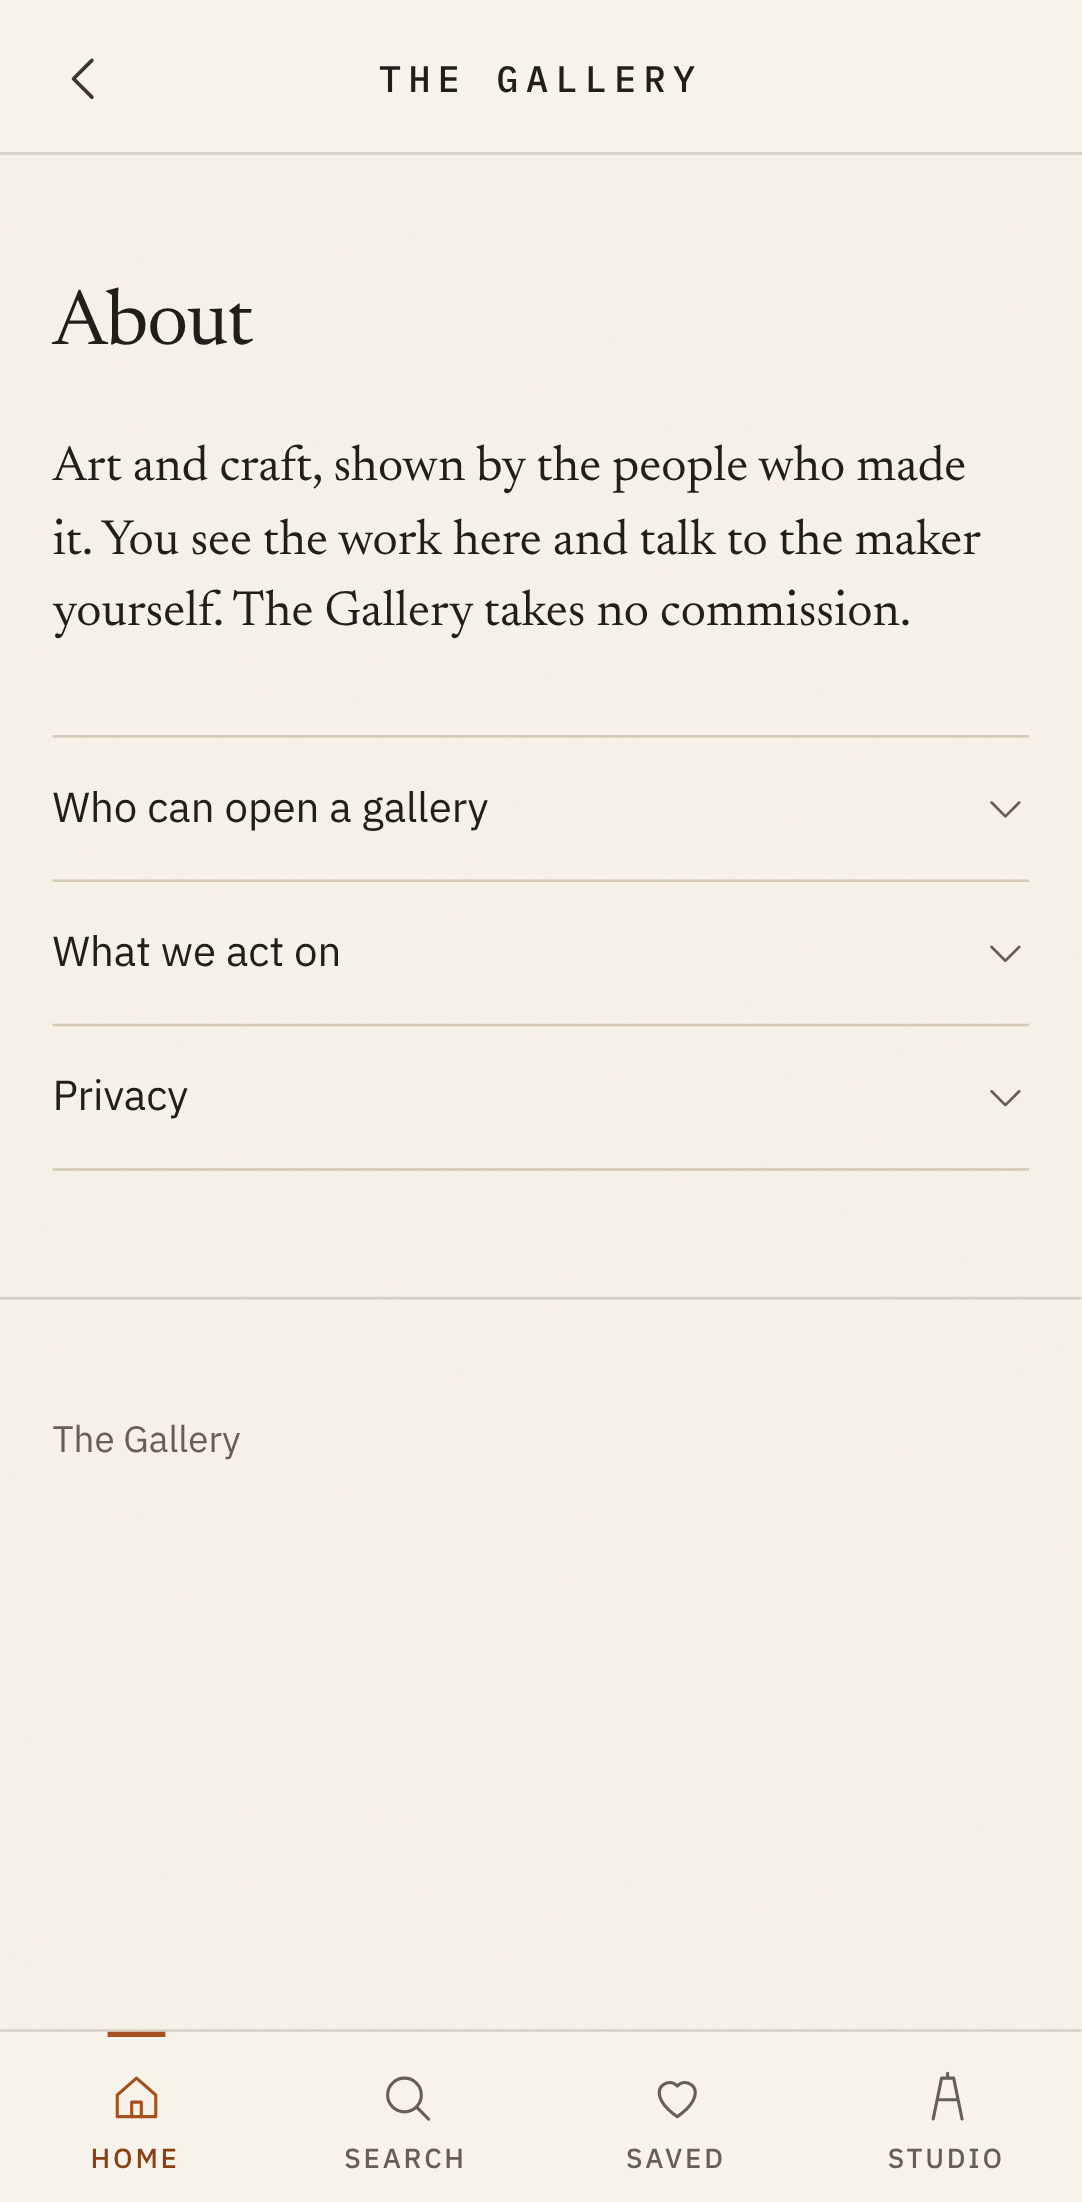
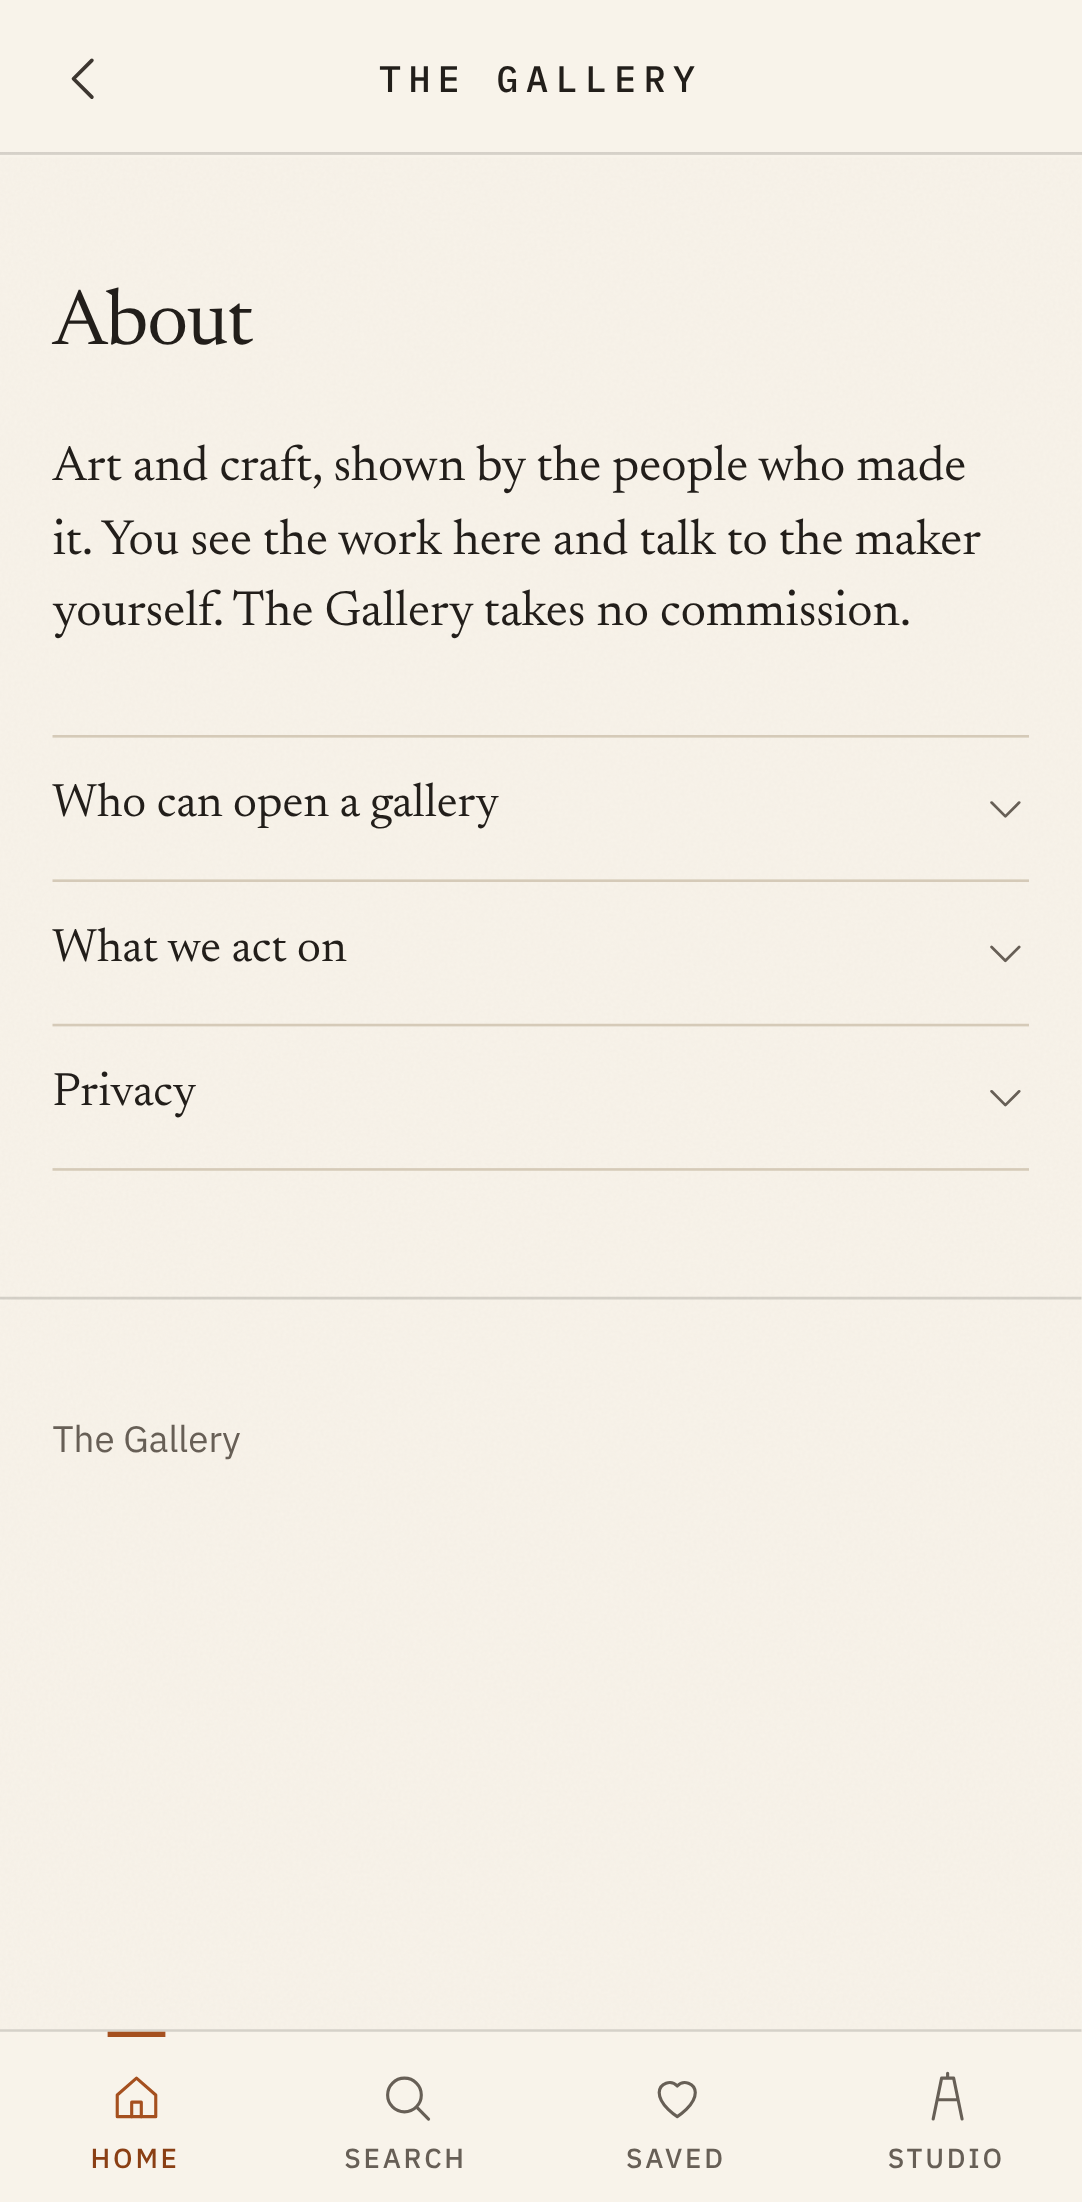
Policy screens: fixes from the design reviews; R03 also catches 'not X, or not Y'
- R03 widened to 'or' (proved: the sweep alone failed on /about and /participation on the old copy)
- 'Anything not allowed here, or not lawful…' -> 'Anything the law or this site forbids you to show or sell.'
- Visiting trimmed (no heading echo, one negative); 'Making' -> 'Running a gallery'
- Under About the row name leads (grid-title) and inner headings sit below it (body)
- /participation: second title a step below the page title; heading block matches About's
- measure 34rem; /participation tab title matches its h1; About source indentation

Claude-Session: https://claude.ai/code/session_01LviQH25njmiVCmZqtKZNtL

diff --git a/public/gallery/app.css b/public/gallery/app.css
@@ -732,11 +732,12 @@ body:has(.fm-dock) .footer { padding-bottom: calc(var(--s5) + 130px + env(safe-a
 /* ===== Policy screens (governor's review of the live screens, 2026-11-10): About's rows opened
    out on /participation and /privacy; the same text under About's folds. Read as a page, in the
    body face: serif titles, sans sentences, no monospace sentences. ===== */
-.policy-page { padding: var(--s5) var(--pad-x) 0; max-width: calc(640px + 2 * var(--pad-x)); }
-.policy-page > h1 { font: var(--t-heading); letter-spacing: -0.01em; margin: 0; }
-.policy-page .policy-title { font: var(--t-heading); letter-spacing: -0.01em; margin: var(--s6) 0 0; }
-@media (min-width: 900px) { .policy-page { padding-top: var(--s7); } }
-.policy { display: grid; gap: var(--s2); padding: var(--s3) 0 var(--s4); max-width: 60ch; }
+/* The heading block matches About's (.page-head): the same top space and tracking at every width. */
+.policy-page { padding: var(--s6) var(--pad-x) 0; max-width: calc(640px + 2 * var(--pad-x)); }
+.policy-page > h1 { font: var(--t-heading); letter-spacing: var(--track-display); margin: 0; }
+/* A second section on the page sits a step below the page's own title. */
+.policy-page .policy-title { font: var(--t-subheading); letter-spacing: var(--track-display); margin: var(--s5) 0 0; }
+.policy { display: grid; gap: var(--s2); padding: var(--s3) 0 var(--s4); max-width: 34rem; }
 .policy .policy-h { font: var(--t-grid-title); color: var(--text); margin: var(--s3) 0 0; }
 .policy > .policy-h:first-child, .policy-list li:first-child .policy-h { margin-top: 0; }
 .policy p { font: var(--t-body); color: var(--text-soft); margin: 0; }
@@ -746,6 +747,9 @@ body:has(.fm-dock) .footer { padding-bottom: calc(var(--s5) + 130px + env(safe-a
 .policy-list p { font: var(--t-body-small); }
 .policy .policy-aside { font: var(--t-body-small); color: var(--text-muted); }
 .fold > .policy { padding-top: 0; }
+/* Under About, the row name leads and the headings inside it sit a step below it. */
+.about-folds > .fold > summary { font: var(--t-grid-title); }
+.about-folds .policy .policy-h { font: var(--t-body); color: var(--text); }
 
 /* The colophon: on a screen with the bar, the page already keeps the bar's room below it, so the
    footer keeps only its own breathing space (the two together left an empty band). */

diff --git a/src/components/Policies.tsx b/src/components/Policies.tsx
@@ -26,7 +26,7 @@ export function WhatWeActOn({ h: Hn = "h2" }: { h?: H }) {
     <div className="policy">
       <ul className="policy-list">
         <li><Hn className="policy-h">Impersonation</Hn><p>Pretending to be someone else, or showing their work as yours.</p></li>
-        <li><Hn className="policy-h">Prohibited or unlawful content</Hn><p>Anything not allowed here, or not lawful to show or sell.</p></li>
+        <li><Hn className="policy-h">Prohibited or unlawful content</Hn><p>Anything the law or this site forbids you to show or sell.</p></li>
         <li><Hn className="policy-h">Spam or systematic misuse</Hn><p>Repeated abuse of the site, by hand or by machine.</p></li>
         <li><Hn className="policy-h">Prohibited resale</Hn><p>Selling work you did not make or materially produce.</p></li>
         <li><Hn className="policy-h">Safety concerns</Hn><p>Anything that puts a person at risk.</p></li>
@@ -43,13 +43,12 @@ export function PrivacyText({ h: Hn = "h2" }: { h?: H }) {
   return (
     <div className="policy">
       <Hn className="policy-h">Visiting</Hn>
-      <p>Visiting needs no account. What you look at is not tracked. Saved works stay in this
-        browser. When you open Saved, the page asks which of them are still available; the request names
-        the works, not you. The servers keep technical logs, such as which page was asked for, to keep the
-        site running.</p>
+      <p>Browsing needs no account and is never tracked. Saved works stay in this browser; opening
+        Saved asks which of them are still available, naming only the works.</p>
+      <p>The servers keep technical logs, such as which page was asked for, to keep the site running.</p>
       <Hn className="policy-h">Messaging a maker</Hn>
       <p>You leave The Gallery. What you say and agree is between you and the maker. We don’t carry or keep it.</p>
-      <Hn className="policy-h">Making</Hn>
+      <Hn className="policy-h">Running a gallery</Hn>
       <p>The email you sign in with is never shown on the site. To let visitors email you, add a public
         email in your Studio’s Settings.</p>
       <Hn className="policy-h">Closing your account</Hn>

diff --git a/src/app/about/page.tsx b/src/app/about/page.tsx
@@ -13,25 +13,25 @@ export default function About() {
     <>
       <Header back="/" />
       <main id="main" tabIndex={-1}>
-      <div className="page-head about">
-        <h1>About</h1>
-        <p className="about-lead">Art and craft, shown by the people who made it. You see the work here and talk
-          to the maker yourself. The Gallery takes no commission.</p>
-      </div>
-      <div className="folds about-folds">
-        <details className="fold">
-          <summary>Who can open a gallery<Icon name="chevron" /></summary>
-          <WhoCanOpen h="h2" />
-        </details>
-        <details className="fold">
-          <summary>What we act on<Icon name="chevron" /></summary>
-          <WhatWeActOn h="h2" />
-        </details>
-        <details className="fold">
-          <summary>Privacy<Icon name="chevron" /></summary>
-          <PrivacyText h="h2" />
-        </details>
-      </div>
+        <div className="page-head about">
+          <h1>About</h1>
+          <p className="about-lead">Art and craft, shown by the people who made it. You see the work here and talk
+            to the maker yourself. The Gallery takes no commission.</p>
+        </div>
+        <div className="folds about-folds">
+          <details className="fold">
+            <summary>Who can open a gallery<Icon name="chevron" /></summary>
+            <WhoCanOpen h="h2" />
+          </details>
+          <details className="fold">
+            <summary>What we act on<Icon name="chevron" /></summary>
+            <WhatWeActOn h="h2" />
+          </details>
+          <details className="fold">
+            <summary>Privacy<Icon name="chevron" /></summary>
+            <PrivacyText h="h2" />
+          </details>
+        </div>
       </main>
       <Footer here="about" />
     </>

diff --git a/e2e/12-visitor-screens.spec.ts b/e2e/12-visitor-screens.spec.ts
@@ -169,12 +169,12 @@ test("About is one screen: a short lead, then the full policy text folded under 
   for (const words of ["It is not for retailers or ordinary resellers.", "Impersonation", "Prohibited or unlawful content",
                        "Spam or systematic misuse", "Prohibited resale", "Safety concerns",
                        "Every action comes with a written reason", "reply to the notice we send you",
-                       "No one here rates the work or checks who a maker is", "Visiting needs no account",
+                       "No one here rates the work or checks who a maker is", "Browsing needs no account",
                        "Your sign-in email stays on record, private"]) {
     await expect(page.getByText(words, { exact: false }).first(), words).toBeVisible();
   }
   // The two pages links already point to stay, with the same words.
-  for (const [path, words] of [["/participation", "Prohibited resale"], ["/privacy", "Visiting needs no account"]] as const) {
+  for (const [path, words] of [["/participation", "Prohibited resale"], ["/privacy", "Browsing needs no account"]] as const) {
     const res = await request.get(path);
     expect(res.status(), path).toBe(200);
     expect(await res.text(), path).toContain(words);

diff --git a/src/app/participation/page.tsx b/src/app/participation/page.tsx
@@ -1,7 +1,7 @@
 import { Header, Footer } from "@/components/Chrome";
 import { WhoCanOpen, WhatWeActOn } from "@/components/Policies";
 
-export const metadata = { title: "Participation" };
+export const metadata = { title: "Who can open a gallery" };
 export const dynamic = "force-static";
 
 // The page links already point to (GAL-OD-15 as ratified). The same screen as About's rows,
